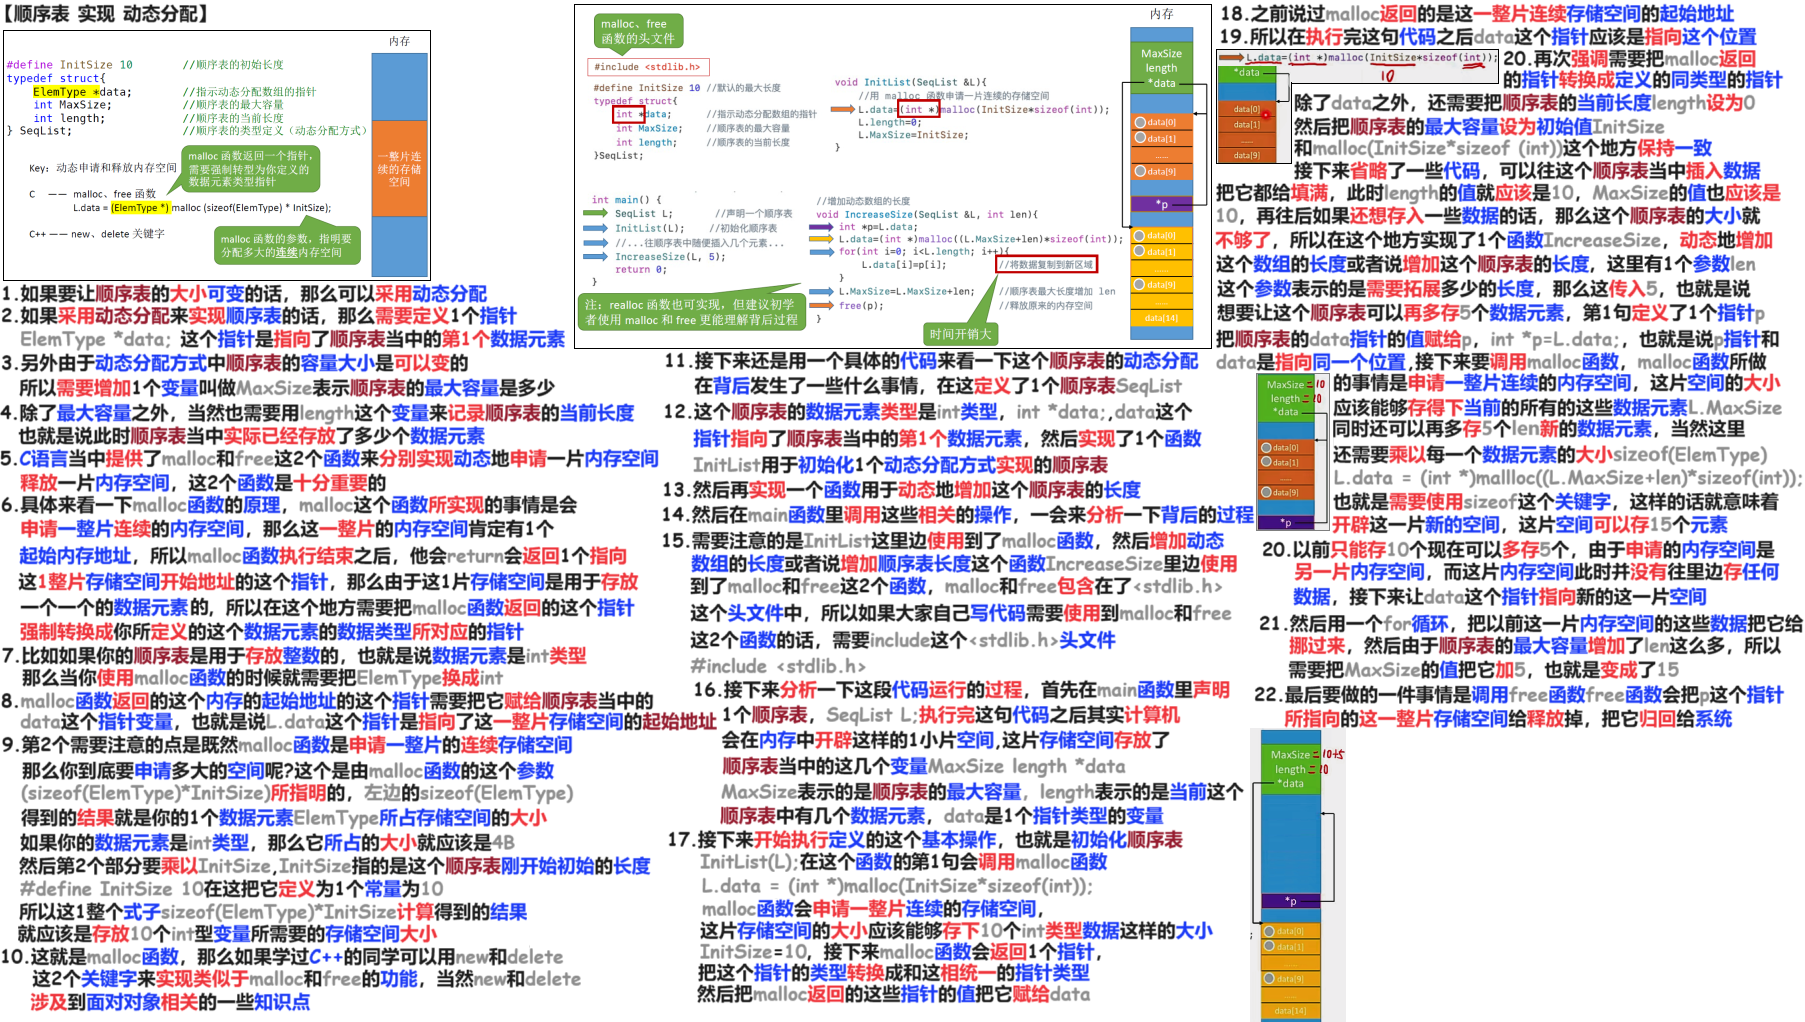
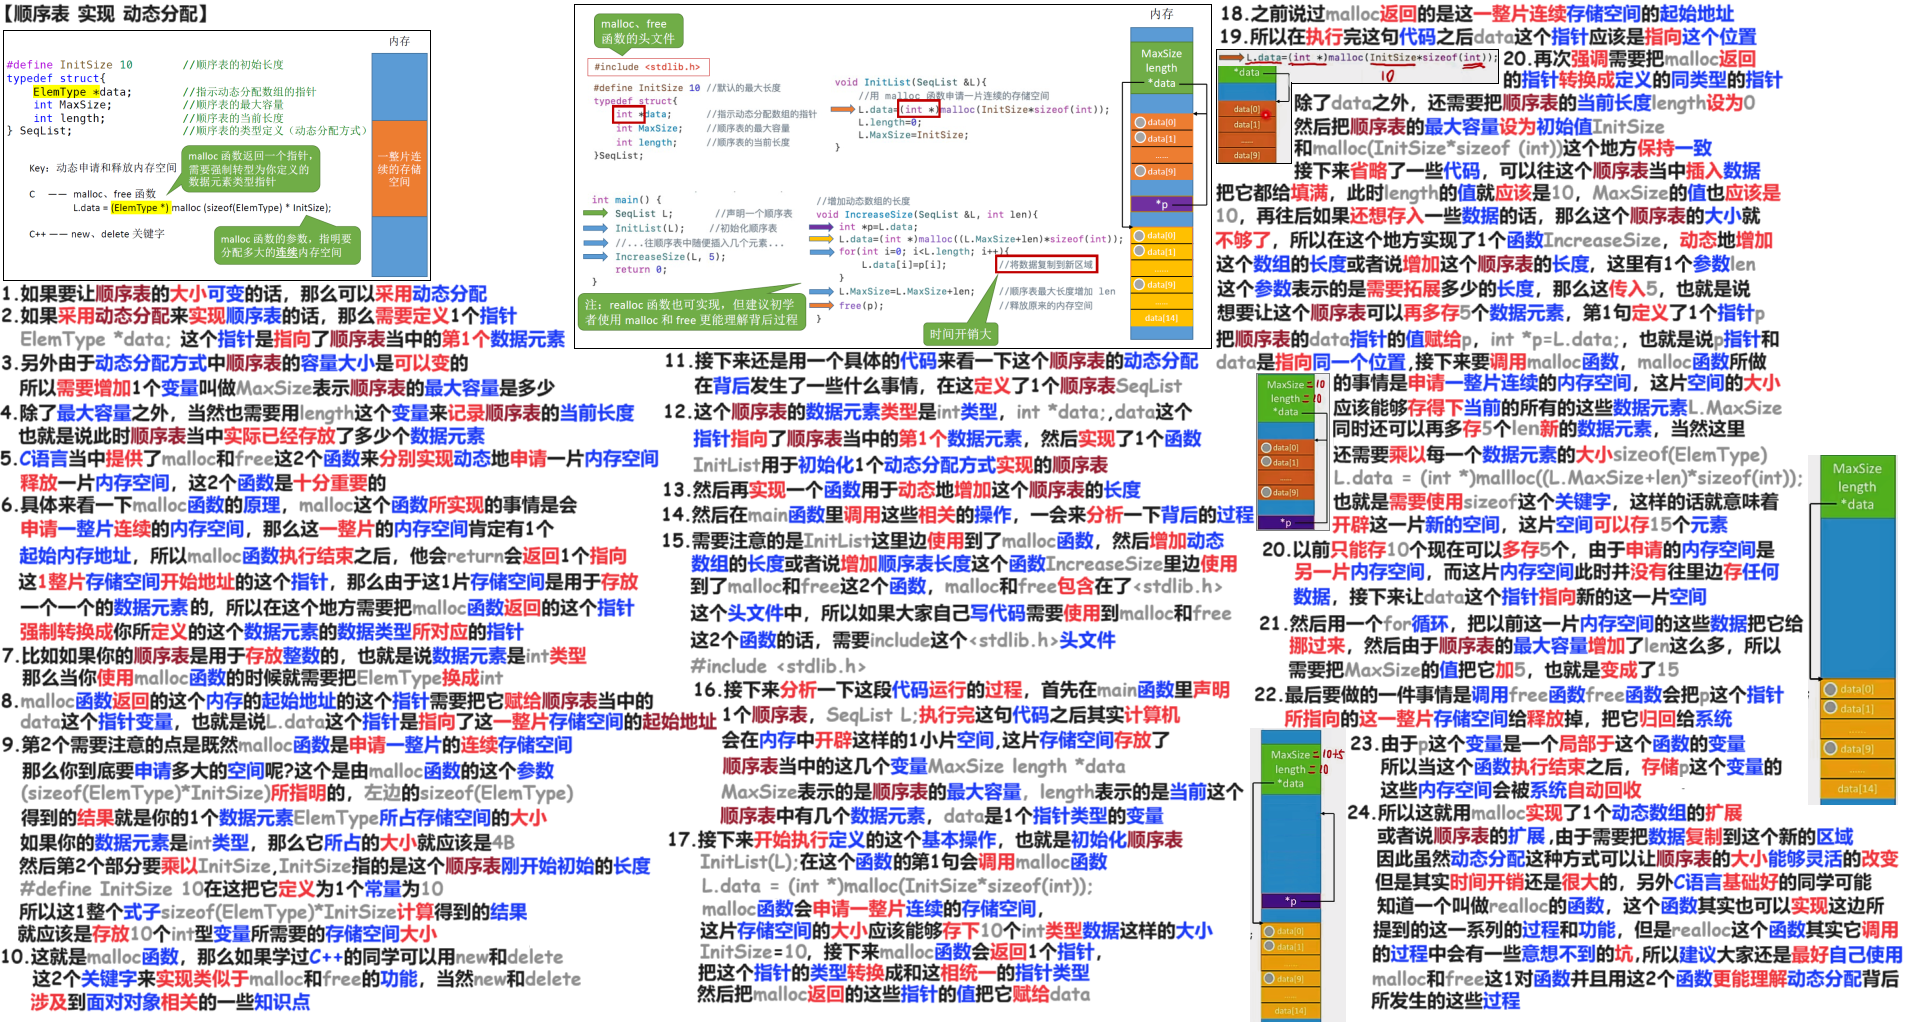
240411

diff --git a/01 初试/02 DS/02 24 王道 基础/02 线性表/02 线性表 顺序表示 240411/01 顺序表 定义 240411/02 Doc.md b/01 初试/02 DS/02 24 王道 基础/02 线性表/02 线性表 顺序表示 240411/01 顺序表 定义 240411/02 Doc.md
@@ -22,3 +22,9 @@
 
 # 04 顺序表 实现 动态分配
 
+<img src="https://cvp.oss-cn-shanghai.aliyuncs.com/picgo/202404112042611.png" alt="image-20240411204206221" style="zoom:50%;" />
+
+
+
+# 05 顺序表 实现
+
